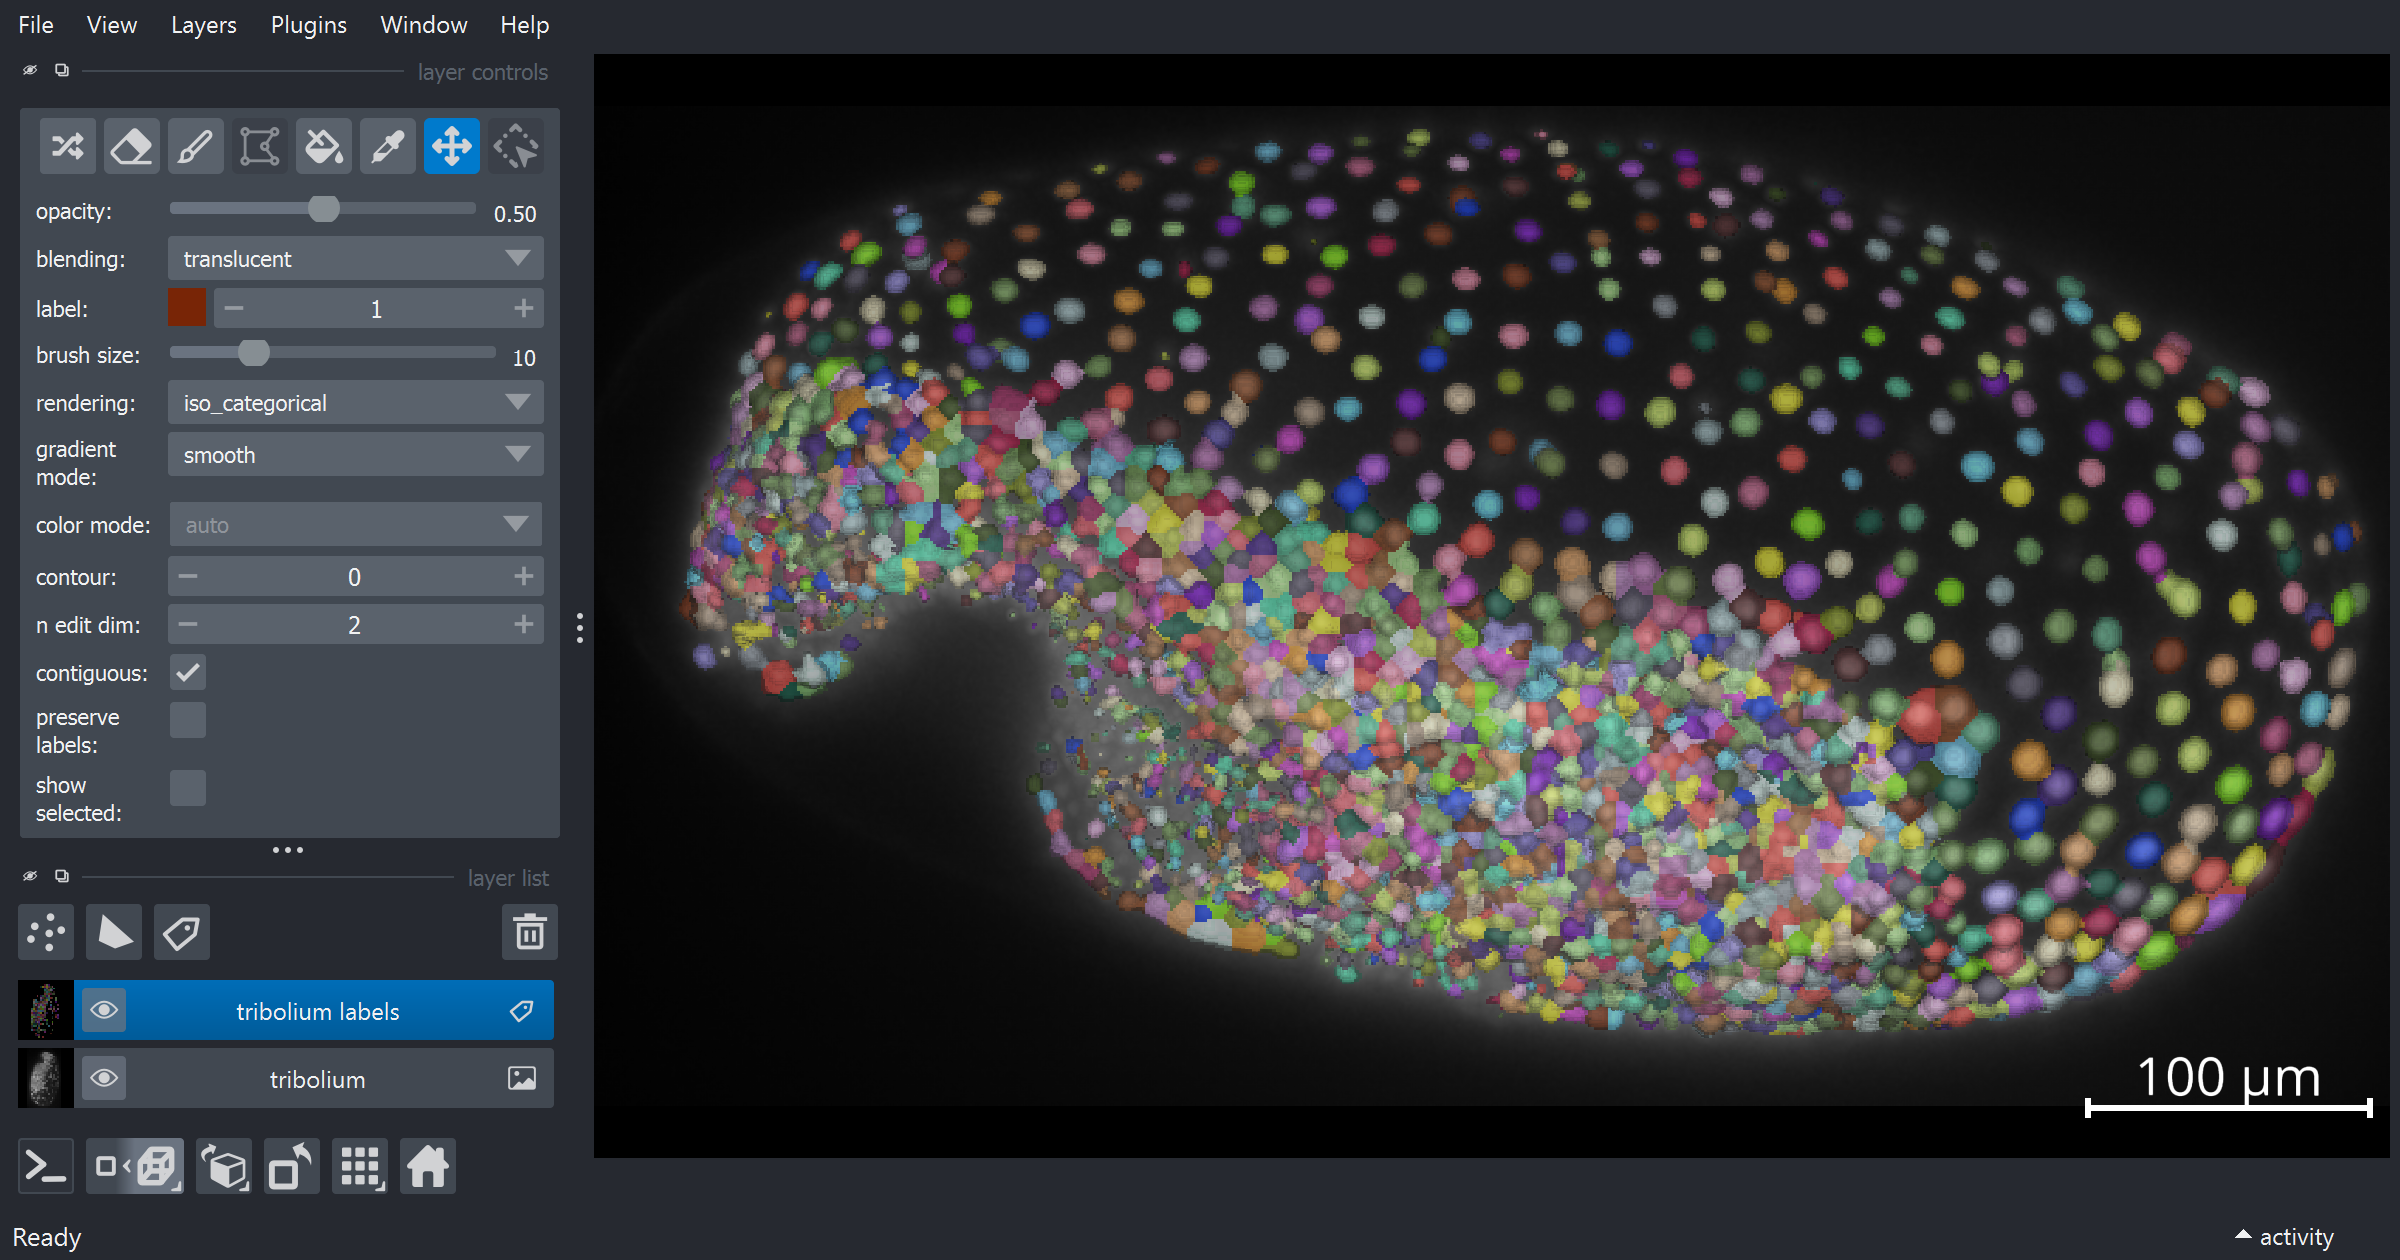
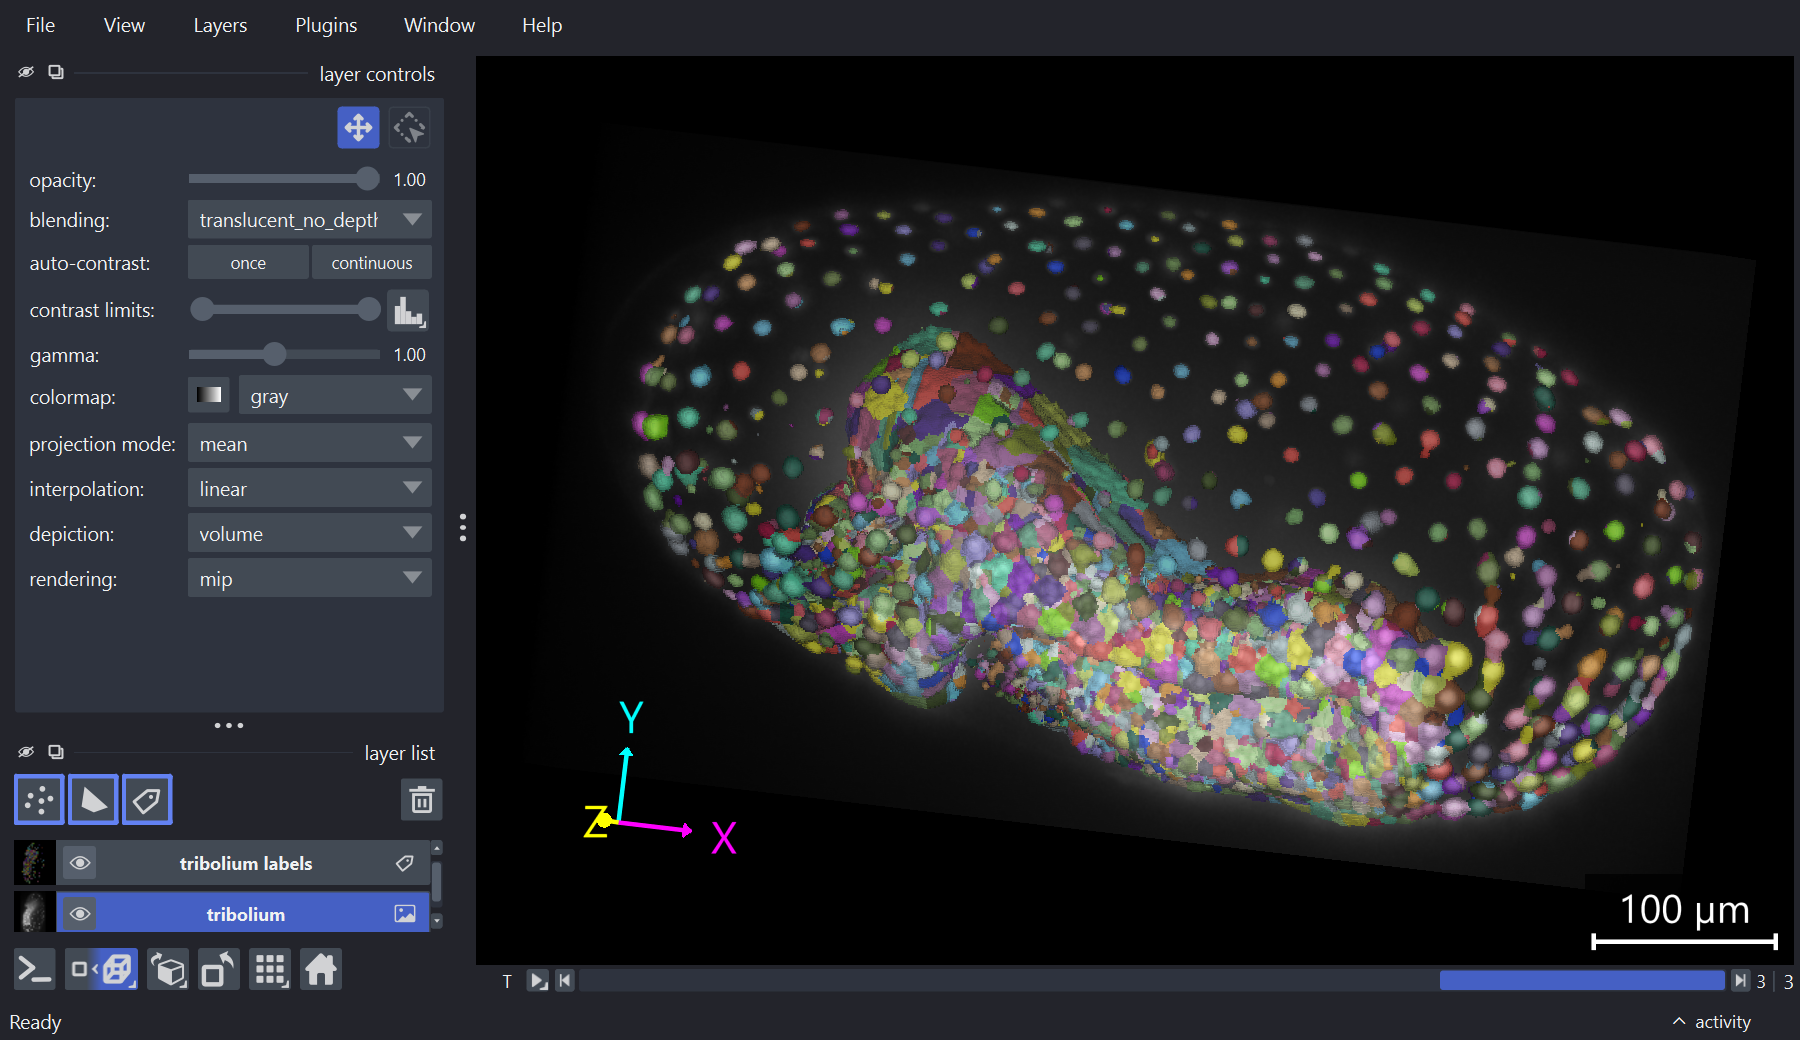
Update opengraph preview image for 0.9 with script (#1119)
# References and relevant issues

Closes #1037

# Description

Adds the opengraph preview image *and script* from #667, then brings it
up to date for modern napari, including a few extra goodies.
Some intentional adds:
1. camera angle to show 3D better
2. scene axes overlay (see above)
3. keeping the time axis, so it has the dims slider
I tried to add the histogram but the layer controls + histogram is too
tall for the 1.91 aspect ratio needed for opengraph previews

The smaller size is due to pyqt6 screen scaling being 1.5 isntead of 2.0
like on qt5 (for me)
<img width="2033" height="705" alt="image"
src="https://github.com/user-attachments/assets/1b7fc360-88b9-4e1b-b864-1d277e0fdb59"
/>

diff --git a/docs/_scripts/opengraph_preview.py b/docs/_scripts/opengraph_preview.py
@@ -1,0 +1,103 @@
+# /// script
+# requires-python = ">=3.11"
+# dependencies = [
+#   "napari[all] @ git+https://github.com/napari/napari.git@main",
+#   "scipy",
+#   "pooch",
+# ]
+# ///
+
+"""Generate the napari OpenGraph social-preview image.
+
+Renders the tribolium embryo (Lund embryo) in 3D with a watershed
+segmentation overlay and saves the 1200x630 PNG referenced by
+``sphinxext-opengraph`` in ``docs/conf.py``.
+
+Usage:
+    uv run docs/_scripts/opengraph_preview.py
+"""
+
+from pathlib import Path
+
+import napari
+from napari._qt.qt_event_loop import get_qapp
+import pooch
+import scipy.ndimage as ndimage
+from skimage import filters, measure, morphology, segmentation
+from skimage.io import imread
+
+SCRIPT_DIR = Path(__file__).resolve().parent
+DATA_URL = 'https://github.com/clEsperanto/clesperanto_example_data/raw/main/Lund-100MB.tif'
+DATA_CACHE_DIR = SCRIPT_DIR / 'data'
+OUTPUT_PATH = SCRIPT_DIR.parent / '_static' / 'opengraph_image.png'
+DATA_HASH = 'sha256:7e39ddf7669b42303eec4cd24207dda1a1dd21847eb47354797ac647bd982110'
+data_path = Path(
+    pooch.retrieve(DATA_URL, known_hash=DATA_HASH, path=DATA_CACHE_DIR)
+)
+WINDOW_SIZE = (1200, 630)
+
+# TZYX tribolium image — keep only the first timepoint.
+img = imread(data_path)[:, :, :, :]
+
+# use a tophat filter to remove the background
+img_bs = ndimage.white_tophat(img, size=15)
+
+# blur the image to smooth out noise from the background subtraction
+img_blur = filters.gaussian(img_bs, 1)
+
+# detect maxima in the blurred image for watershed seeds
+img_spot_maxima = morphology.local_maxima(img_blur)
+
+# create a threshold mask
+img_otsu = img_blur > filters.threshold_otsu(img_blur)
+
+# keep only maxima spots that are inside a thresholded area
+img_threshold_spots = img_spot_maxima * img_otsu
+
+# create a connected components labeling of the thresholded image
+# using the local maxima as markers, as a seed for a voronoi diagram
+img_labeled_spots = measure.label(img_threshold_spots)
+img_labels = segmentation.watershed(
+    img_otsu,
+    markers=img_labeled_spots,
+    mask=img_otsu
+)
+
+viewer = napari.Viewer()
+
+image = viewer.add_image(
+    img,
+    name='tribolium',
+    units=(None, 'µm', 'µm', 'µm'),
+    axis_labels=['T', 'Z', 'X', 'Y'],
+)
+# image.histogram.enabled = True
+labels = viewer.add_labels(
+    img_labels,
+    name='tribolium labels',
+    opacity=0.5,
+    iso_gradient_mode='smooth',
+    units=(None,'µm', 'µm', 'µm'),
+    axis_labels=['T', 'Z', 'X', 'Y'],
+
+)
+viewer.layers.selection = [image]
+viewer.window.resize(*WINDOW_SIZE)
+viewer.dims.ndisplay = 3
+viewer.dims.set_point(0,4)
+viewer.scene.camera.angles = (83, 12, -2)
+viewer.canvas.overlays.axes.visible = True
+viewer.canvas.overlays.axes.box = False
+viewer.canvas.overlays.scale_bar.visible = True
+viewer.canvas.overlays.scale_bar.font_size = 15
+viewer.fit_to_view(margin=0)
+
+# Hack to get the viewer to size properly by churning the event loop
+app = get_qapp()
+for _ in range(10):
+    app.processEvents()
+
+viewer.screenshot(path=OUTPUT_PATH, canvas_only=False)
+print(f'Saved OpenGraph image to {OUTPUT_PATH}')
+
+napari.run()

diff --git a/docs/conf.py b/docs/conf.py
@@ -261,7 +261,12 @@ ogp_use_first_image = False
 ogp_description_length = 300
 ogp_type = 'website'
 ogp_site_name = 'napari'
-ogp_canonical_url = 'https://napari.org/stable'
+ogp_image_alt = '3D segmented tribolium embryo in the napari viewer'
+ogp_canonical_url = 'https://napari.org/stable/'
+ogp_custom_meta_tags = [
+    # The shared ogp_image is a 1200x630 banner; use the large card on X/Twitter.
+    '<meta name="twitter:card" content="summary_large_image" />',
+]
 ogp_social_cards = {
     'image': '_static/logo.png',
 }
